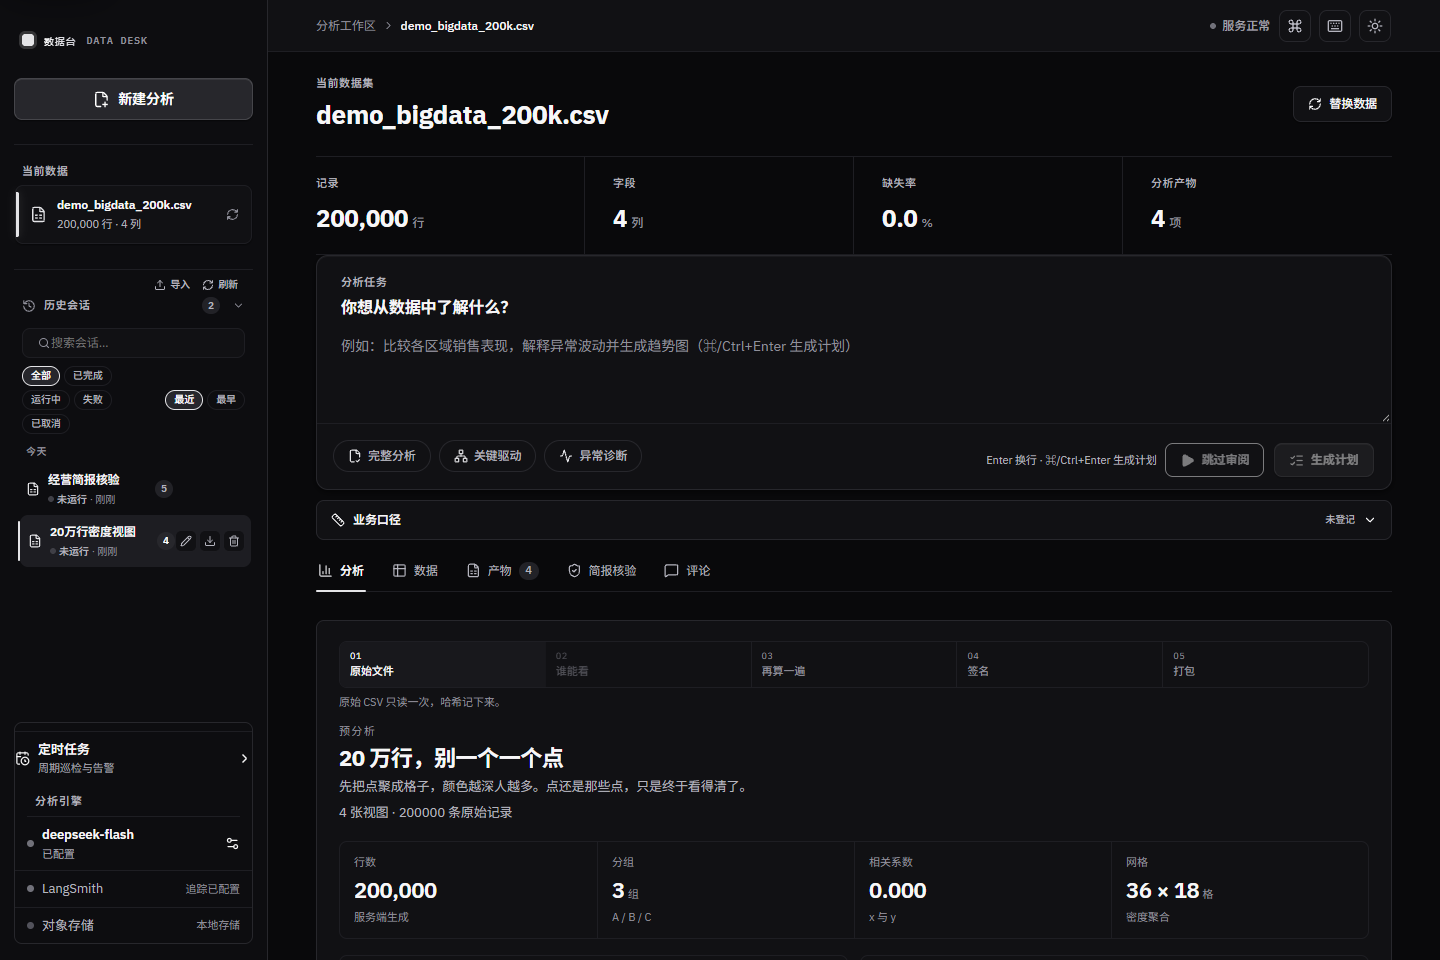
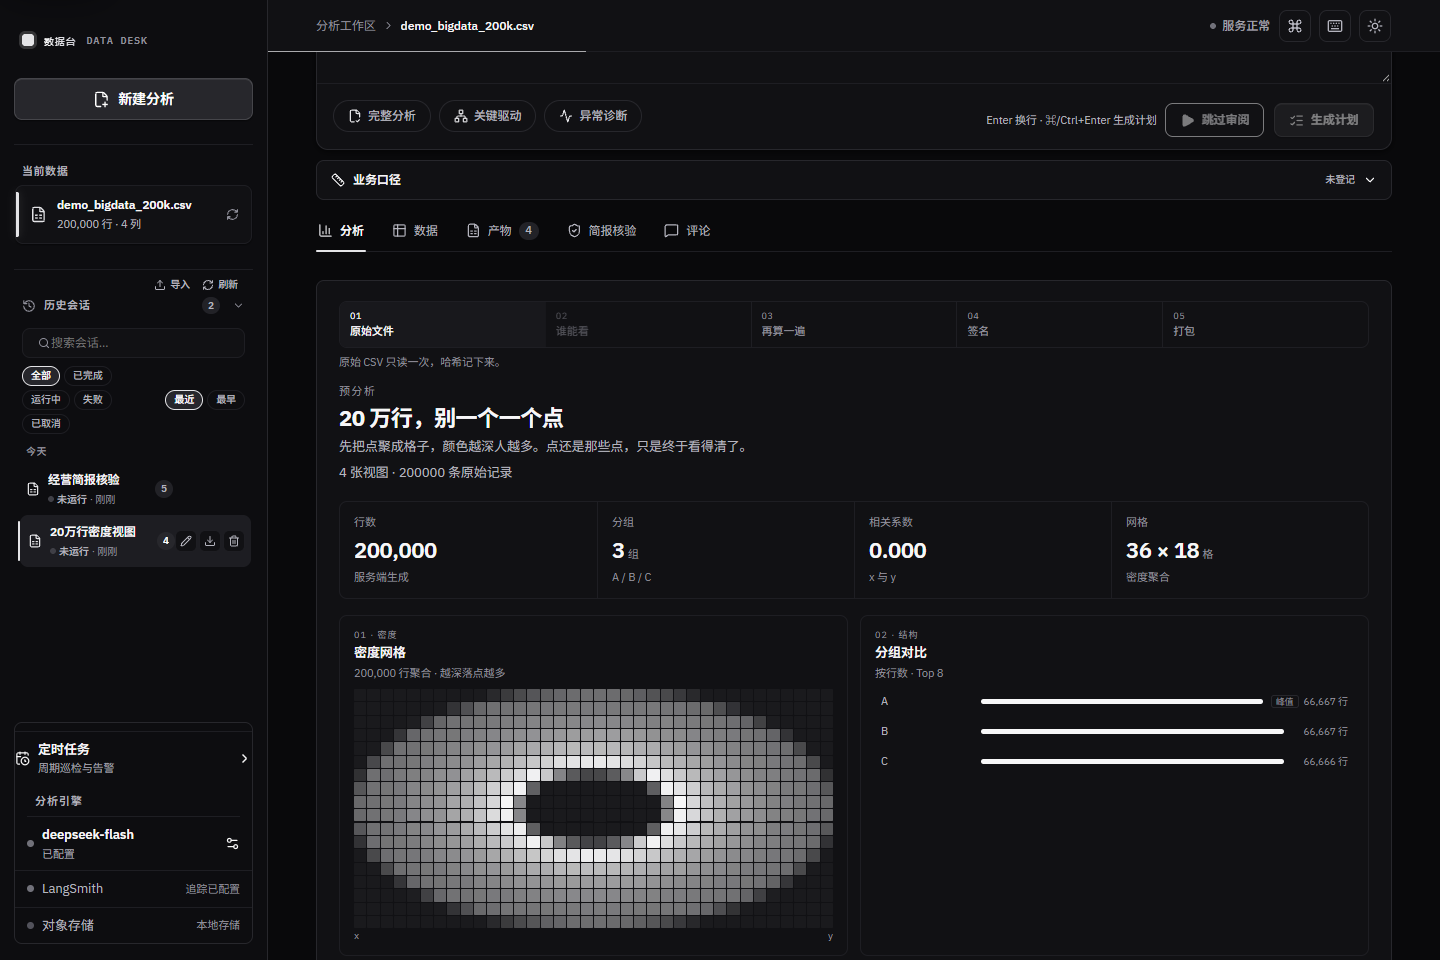
docs(screenshots): 主工作台截图同屏呈现 20 万行密度网格与分组对比

diff --git a/scripts/capture_docs_screenshots.py b/scripts/capture_docs_screenshots.py
@@ -213,11 +213,22 @@ async function clickTab(page, label) {{
   await page.screenshot({{ path: path.join(OUT, "start-light.png") }});
   console.log("wrote start-light.png");
 
-  // 2) 大数据样例会话 → 分析总览（浅色）
+  // 2) 大数据样例会话 → 分析总览（浅色，适度滚动让 20 万行密度视图卡片与交互图表同屏呈现）
   await openSessionByTitle(page, "20万行密度视图");
   await clickTab(page, "分析");
+  await page.evaluate(() => {{
+    const scroller = document.querySelector("main") || document.scrollingElement;
+    if (scroller) scroller.scrollTop = 340;
+    window.scrollTo(0, 340);
+  }});
+  await page.waitForTimeout(1800);
   await page.screenshot({{ path: path.join(OUT, "overview-light.png") }});
   console.log("wrote overview-light.png");
+  await page.evaluate(() => {{
+    const scroller = document.querySelector("main") || document.scrollingElement;
+    if (scroller) scroller.scrollTop = 0;
+    window.scrollTo(0, 0);
+  }});
 
   // 3) 数据预览表格
   await clickTab(page, "数据");
@@ -261,7 +272,7 @@ async function clickTab(page, label) {{
   await page.screenshot({{ path: path.join(OUT, "sales-audit-light.png") }});
   console.log("wrote sales-audit-light.png");
 
-  // 7) 暗色主题主工作台
+  // 7) 暗色主题主工作台（同样展示 20 万行预分析密度视图）
   await openSessionByTitle(page, "20万行密度视图");
   await page.evaluate(() => {{
     const b = document.querySelector('button[title*="主题"], .theme-toggle, button[aria-label*="主题"], button[title*="暗"], button[title*="深色"]');
@@ -269,6 +280,12 @@ async function clickTab(page, label) {{
   }});
   await page.waitForTimeout(1400);
   await clickTab(page, "分析");
+  await page.evaluate(() => {{
+    const scroller = document.querySelector("main") || document.scrollingElement;
+    if (scroller) scroller.scrollTop = 340;
+    window.scrollTo(0, 340);
+  }});
+  await page.waitForTimeout(1500);
   await page.screenshot({{ path: path.join(OUT, "overview-dark.png") }});
   console.log("wrote overview-dark.png");
 

diff --git a/README.md b/README.md
@@ -57,10 +57,10 @@ flowchart LR
 
 ## 界面预览
 
-| 起始页 · 拖拽上传与示例数据 | 分析工作区 · 20 万行预分析与任务 |
+| 起始页 · 拖拽上传与示例数据 | 分析工作区 · 20 万行密度网格与分组对比 |
 | :---: | :---: |
 | <img src="docs/screenshots/start-light.png" alt="起始页" width="100%" /> | <img src="docs/screenshots/overview-light.png" alt="数据分析工作台主界面（浅色主题）" width="100%" /> |
-| 深色主题 · 全流程工作台 | 有据经营简报核验 · 独立复算与哈希链存证 |
+| 深色主题 · 20 万行密度工作台 | 有据经营简报核验 · 原表复算捕获 -442 差额 |
 | <img src="docs/screenshots/overview-dark.png" alt="深色主题主界面" width="100%" /> | <img src="docs/screenshots/sales-audit-light.png" alt="经营简报核验" width="100%" /> |
 | 产物中心 · 交互图表缩略图与下载 | 图表预览 · 20 万行密度网格模态 |
 | <img src="docs/screenshots/artifacts-light.png" alt="产物中心" width="100%" /> | <img src="docs/screenshots/preview-light.png" alt="图表预览模态" width="100%" /> |
